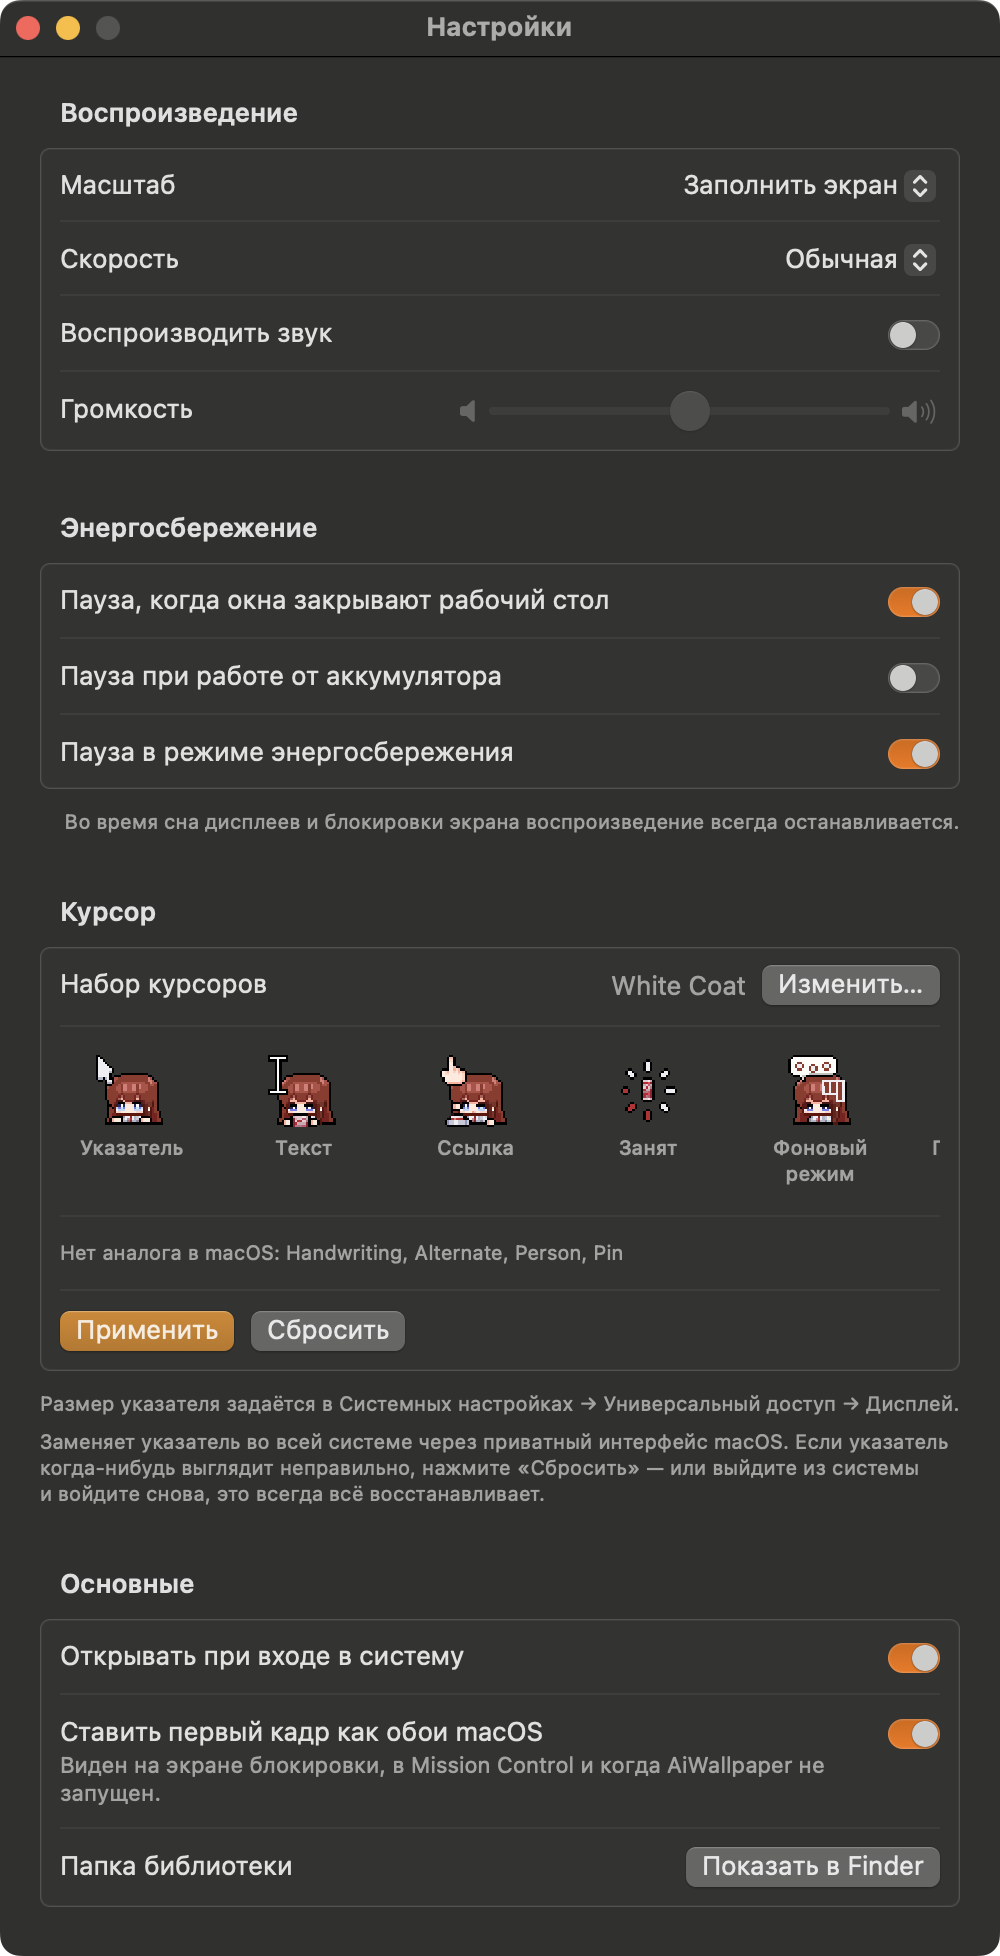
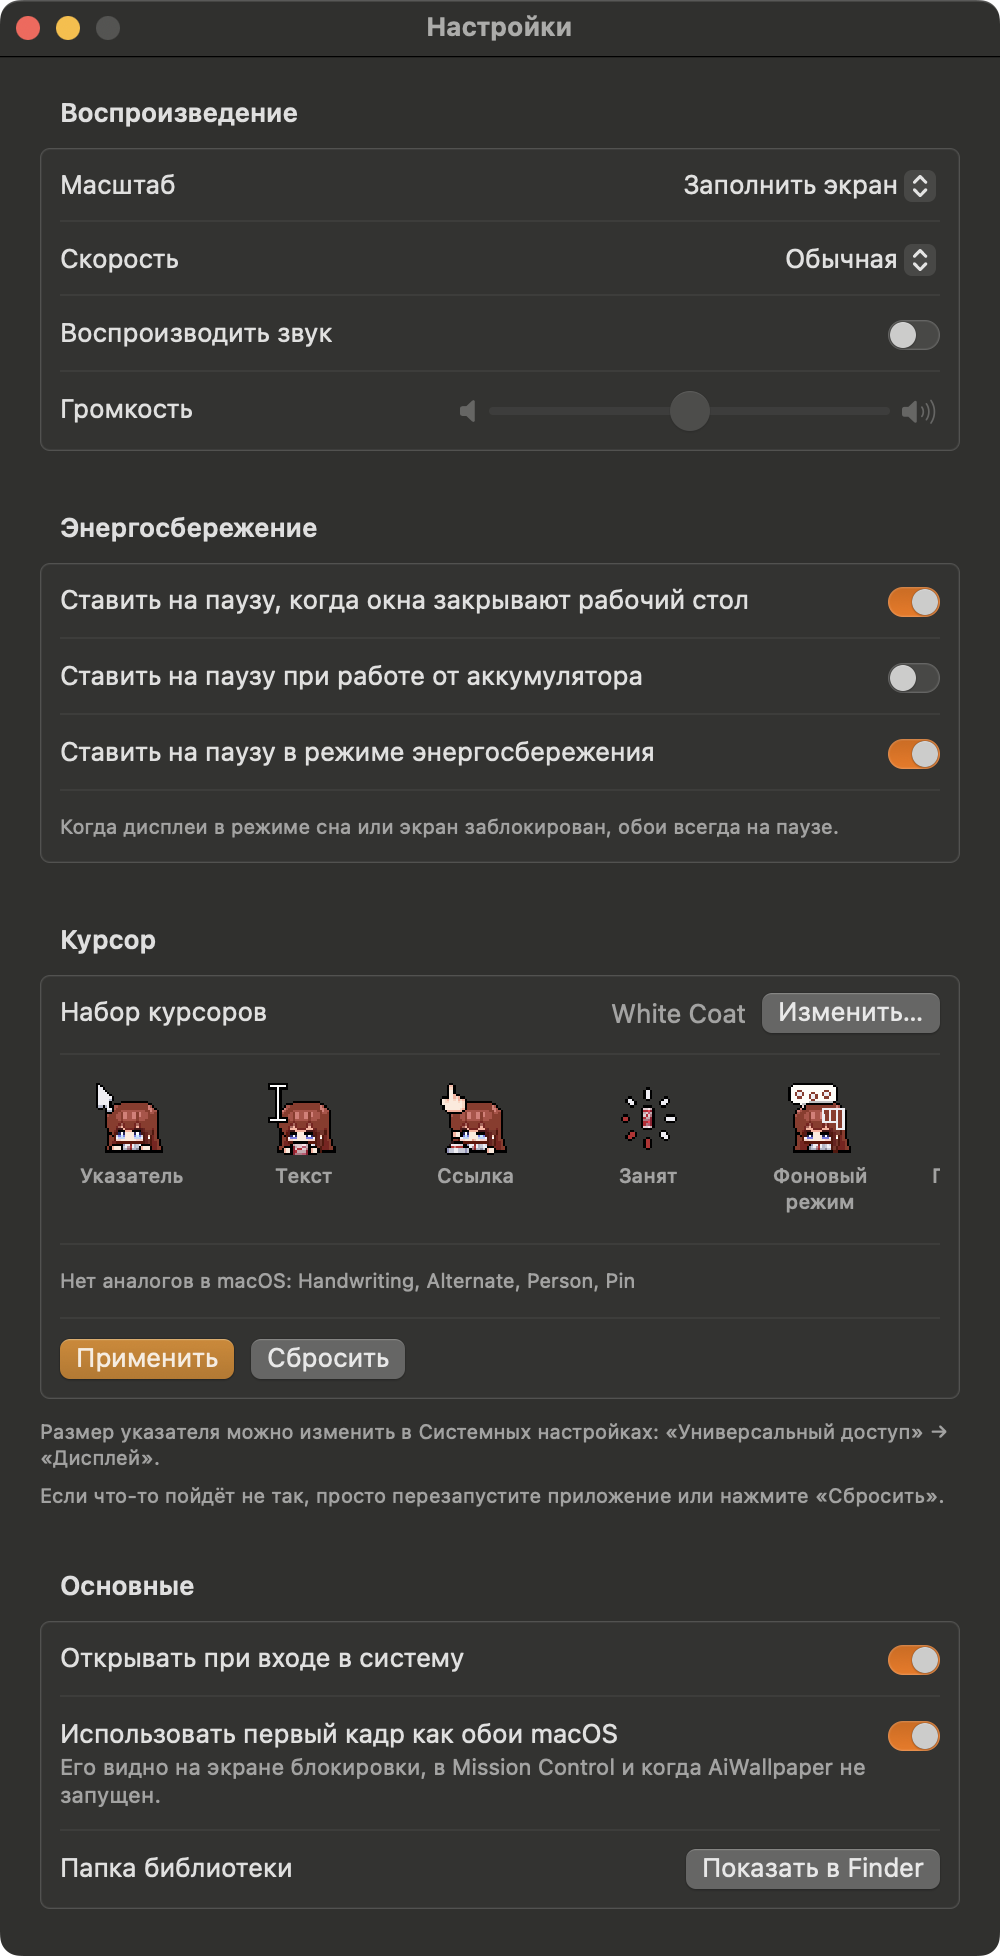
Polish Russian and English texts; re-apply cursors at launch
- Rewrite the Russian strings the way people say them: toggles in one
  form («Ставить на паузу…», «Использовать первый кадр…»), «подвигайте
  мышью», simpler pointer-size and recovery hints
- Real plural forms in both languages via Localizable.stringsdict
  (1 курсор / 2 курсора / 5 курсоров; 1 cursor / 21 cursors)
- English: "Reset" button to match the hint, "No macOS equivalent for"
- Re-apply the applied cursor pack whenever the app starts, so cursors
  survive logout and reboot and restarting the app repairs the pointer,
  as the new hint says; the applied folder is remembered separately
  from the one being previewed
- Move the energy note inside its group: a grouped form's footer sat
  off to the right
- README: interface language, cursor persistence, updated screenshot

diff --git a/Sources/AiWallpaper/CursorSettings.swift b/Sources/AiWallpaper/CursorSettings.swift
@@ -3,8 +3,6 @@ import Combine
 import CursorCore
 import Foundation
 
-/// Drives the cursor section of the Settings window: the chosen pack, the preview, and the
-/// Apply / Reset actions over `SystemCursorController`.
 /// One cursor ready to show animated in the settings preview.
 struct CursorPreview: Identifiable {
     let id: String
@@ -14,6 +12,8 @@ struct CursorPreview: Identifiable {
     let durations: [Double]
 }
 
+/// Drives the cursor section of the Settings window: the chosen pack, the preview, and the
+/// Apply / Reset actions over `SystemCursorController`.
 @MainActor
 final class CursorSettings: ObservableObject {
     @Published private(set) var theme: CursorTheme?
@@ -27,8 +27,13 @@ final class CursorSettings: ObservableObject {
     /// Accessibility → Display → Pointer size, so the app offers no size control of its own.
     private let pointSize: Double = 28
 
+    /// Folder of the pack shown in the preview.
+    private var themeFolder: URL?
+
     private enum Key {
         static let folderPath = "cursorFolderPath"
+        /// Folder of the applied pack, which can differ from the one being previewed.
+        static let appliedFolderPath = "appliedCursorFolderPath"
     }
 
     init() {
@@ -87,14 +92,17 @@ final class CursorSettings: ObservableObject {
             return
         }
         theme = loaded
+        themeFolder = url
         previews = Self.makePreviews(loaded)
         if remember {
             defaults.set(url.path, forKey: Key.folderPath)
             let source = loaded.usedInf
                 ? NSLocalizedString("mapped from install.inf", comment: "Cursor status")
                 : NSLocalizedString("mapped by file name", comment: "Cursor status")
-            status = String(format: NSLocalizedString("Loaded %d cursors from “%@” (%@).", comment: "Cursor status"),
-                            Self.cursorCount(loaded), loaded.name, source)
+            // localizedStringWithFormat picks the plural form from Localizable.stringsdict.
+            status = String.localizedStringWithFormat(
+                NSLocalizedString("Loaded %d cursors from “%@” (%@).", comment: "Cursor status"),
+                Self.cursorCount(loaded), loaded.name, source)
         }
     }
 
@@ -102,17 +110,42 @@ final class CursorSettings: ObservableObject {
         guard let theme else { return }
         let result = controller.apply(theme, pointSize: pointSize)
         isApplied = controller.isApplied
-        if result.failed.isEmpty {
-            status = String(format: NSLocalizedString("Applied %d cursors. Move the mouse to see them.", comment: "Cursor status"),
-                            Self.cursorCount(theme))
-        } else {
-            status = String(format: NSLocalizedString("Applied %d cursors; %d could not be set.", comment: "Cursor status"),
-                            result.applied.count, result.failed.count)
+        if isApplied, let themeFolder {
+            defaults.set(themeFolder.path, forKey: Key.appliedFolderPath)
         }
+        if result.failed.isEmpty {
+            status = String.localizedStringWithFormat(
+                NSLocalizedString("Applied %d cursors. Move the mouse to see them.", comment: "Cursor status"),
+                Self.cursorCount(theme))
+        } else {
+            status = String.localizedStringWithFormat(
+                NSLocalizedString("Applied %d cursors; %d could not be set.", comment: "Cursor status"),
+                result.applied.count, result.failed.count)
+        }
+    }
+
+    /// Puts the applied pack back when the app starts. The window server forgets registered
+    /// cursors when the user logs out, and macOS can restore some of its own in the meantime;
+    /// the choice itself is kept on disk. So restarting the app is enough to repair the pointer.
+    func reapplyIfNeeded() {
+        guard controller.isApplied else { return }
+        let folder: URL
+        if let path = defaults.string(forKey: Key.appliedFolderPath) {
+            folder = URL(fileURLWithPath: path)
+        } else if let themeFolder, theme?.name == controller.appliedThemeName {
+            folder = themeFolder // applied by a version that did not record the folder separately
+        } else {
+            return
+        }
+        let applied = folder == themeFolder ? theme : CursorTheme.load(fromFolder: folder)
+        guard let applied, !applied.assignments.isEmpty else { return }
+        controller.apply(applied, pointSize: pointSize)
+        defaults.set(folder.path, forKey: Key.appliedFolderPath)
     }
 
     func reset() {
         controller.reset()
+        defaults.removeObject(forKey: Key.appliedFolderPath)
         isApplied = controller.isApplied
         status = NSLocalizedString("System cursors restored.", comment: "Cursor status")
     }

diff --git a/Sources/AiWallpaper/UI/CursorSettingsView.swift b/Sources/AiWallpaper/UI/CursorSettingsView.swift
@@ -111,7 +111,7 @@ struct CursorSettingsSection: View {
                 }
 
                 if !cursor.unmatchedNames.isEmpty {
-                    Text(String(format: NSLocalizedString("No macOS match for: %@", comment: "Cursor settings"),
+                    Text(String(format: NSLocalizedString("No macOS equivalent for: %@", comment: "Cursor settings"),
                                 cursor.unmatchedNames.joined(separator: ", ")))
                         .font(.caption)
                         .foregroundStyle(.secondary)
@@ -122,7 +122,7 @@ struct CursorSettingsSection: View {
                         .buttonStyle(.borderedProminent)
                         .disabled(cursor.mappedCount == 0)
                     if cursor.isApplied {
-                        Button("Reset to Default", action: cursor.reset)
+                        Button("Reset", action: cursor.reset)
                     }
                     Spacer()
                 }
@@ -136,7 +136,7 @@ struct CursorSettingsSection: View {
         } footer: {
             VStack(alignment: .leading, spacing: 6) {
                 Text("Pointer size is set in System Settings → Accessibility → Display.")
-                Text("Replaces the pointer for the whole system using a private macOS interface. If the pointer ever looks wrong, click Reset — or log out and back in, which always restores it.")
+                Text("If something goes wrong, just restart the app or click Reset.")
             }
             .font(.caption)
             .foregroundStyle(.secondary)

diff --git a/Sources/AiWallpaper/UI/SettingsView.swift b/Sources/AiWallpaper/UI/SettingsView.swift
@@ -34,13 +34,11 @@ struct SettingsView: View {
                 .disabled(!preferences.playsSound)
             }
 
-            Section {
+            Section("Energy") {
                 Toggle("Pause when windows cover the desktop", isOn: $preferences.pauseWhenCovered)
                 Toggle("Pause on battery power", isOn: $preferences.pauseOnBattery)
                 Toggle("Pause in Low Power Mode", isOn: $preferences.pauseInLowPowerMode)
-            } header: {
-                Text("Energy")
-            } footer: {
+                // Inside the group, under the toggles: a grouped form's footer sits off to the right.
                 Text("Playback always stops while displays sleep or the screen is locked.")
                     .font(.caption)
                     .foregroundStyle(.secondary)

diff --git a/Sources/AiWallpaper/AppDelegate.swift b/Sources/AiWallpaper/AppDelegate.swift
@@ -69,6 +69,7 @@ final class AppDelegate: NSObject, NSApplicationDelegate {
         }
         NSApp.mainMenu = makeMainMenu()
         manager.start()
+        cursorSettings.reapplyIfNeeded()
         statusMenu = StatusMenuController(library: library, manager: manager, actions: .init(
             openLibrary: { [unowned self] in showLibrary(nil) },
             addFiles: { [unowned self] in addWallpapers(nil) },
